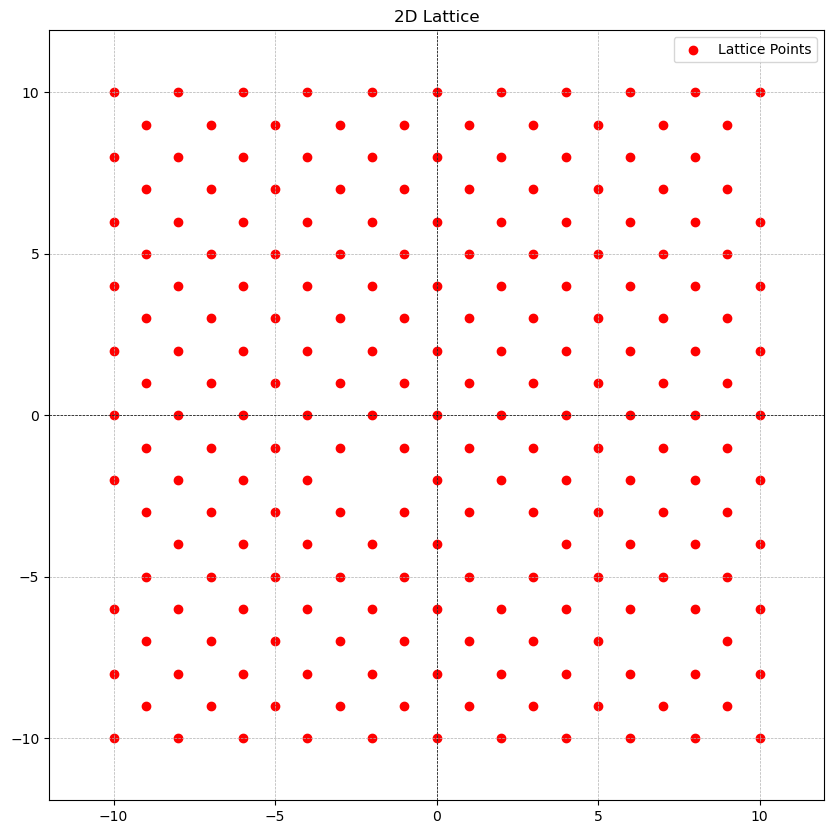
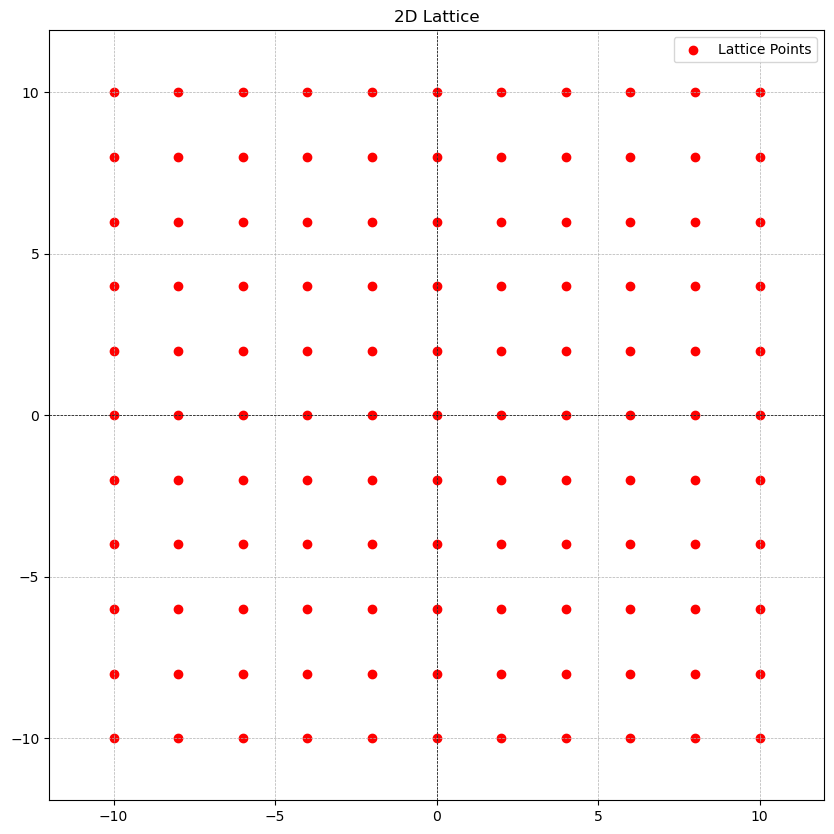
Update notebook and build files

diff --git a/fundamentals.md b/fundamentals.md
@@ -74,17 +74,7 @@ Below, we will see what a lattice is and what is not.
   
   **Non-example**: $(1,0),(2,3),(−1,2)$
 
-
-    
-![png](fundamentals_files/fundamentals_10_0.png)
-    
-
-
-
-    
-![png](fundamentals_files/fundamentals_10_1.png)
-    
-
+- ***CASE 1**: Just even integers*
 
 
     
@@ -95,5 +85,19 @@ Below, we will see what a lattice is and what is not.
 
     
 ![png](fundamentals_files/fundamentals_11_1.png)
+    
+
+
+- ***CASE 2**: random 2-tuples with sum of even integer*
+
+
+    
+![png](fundamentals_files/fundamentals_13_0.png)
+    
+
+
+
+    
+![png](fundamentals_files/fundamentals_13_1.png)
     
 
